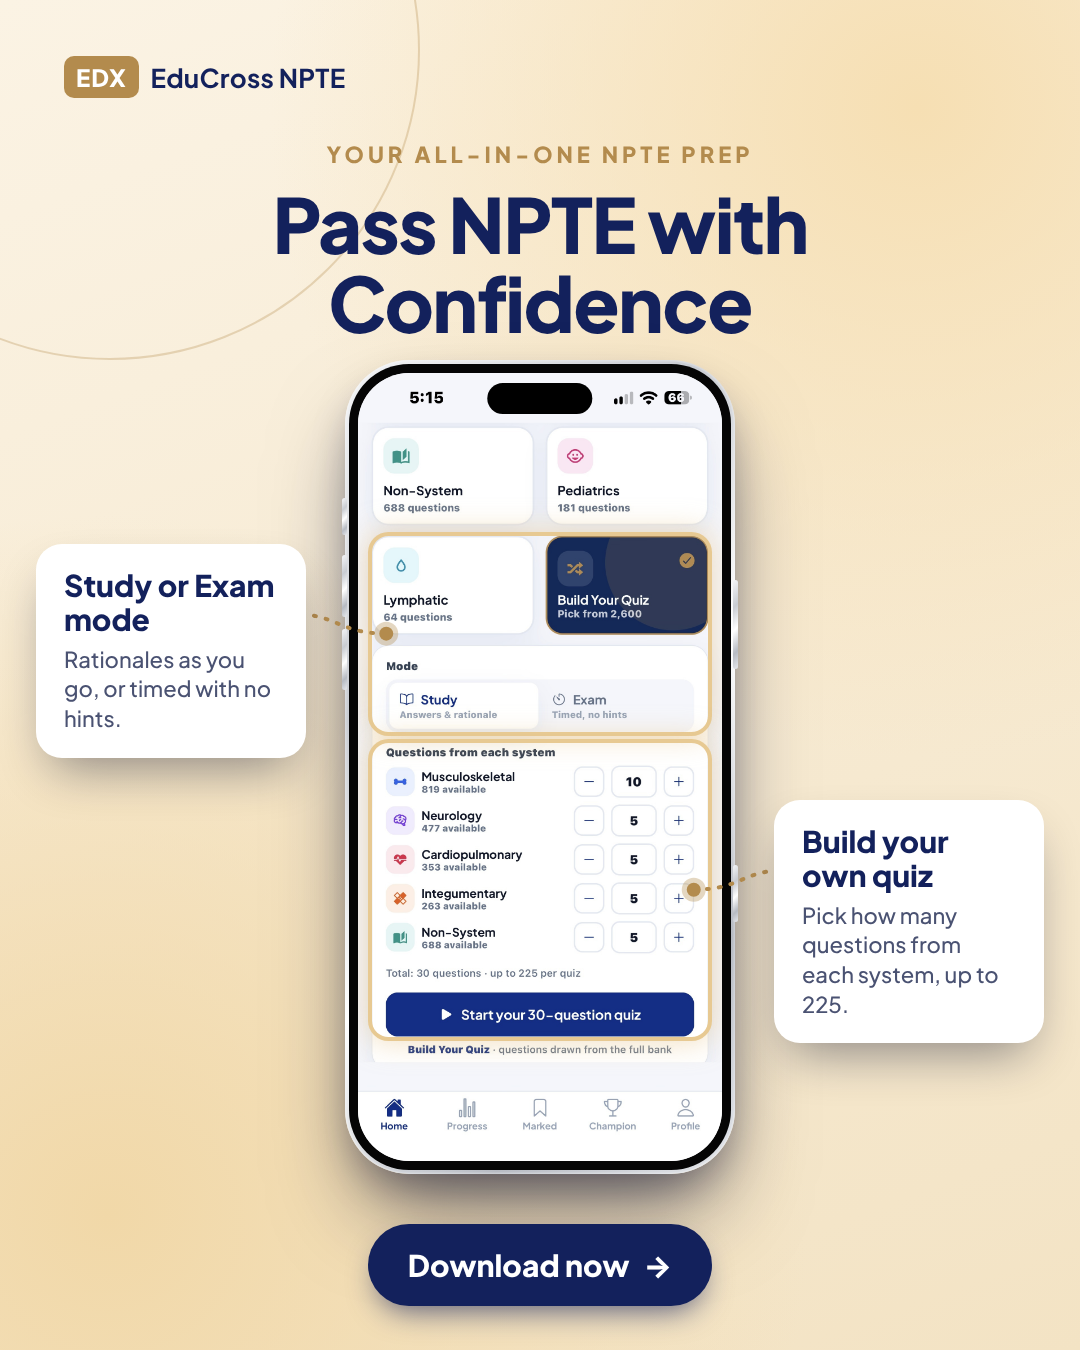
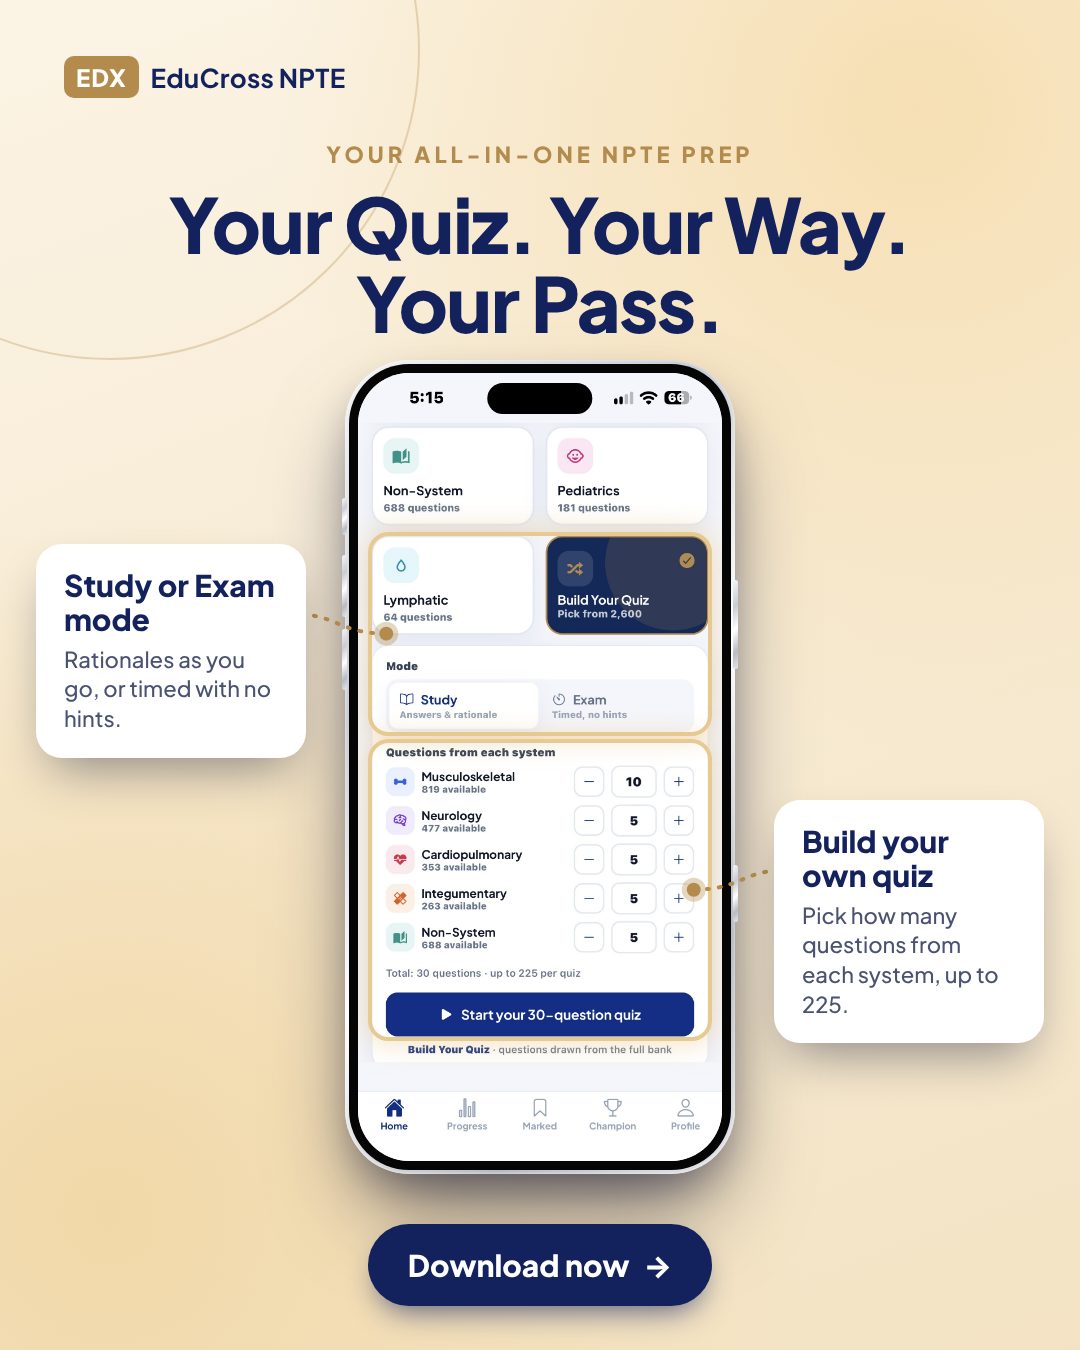
Give the Build Your Quiz ad its own headline
Claude-Session: https://claude.ai/code/session_01GUvH9RzxzMnEgJU7PzBmzG

Changed region(s): [[0.1528, 0.1244, 0.825, 0.2489]]

diff --git a/facebook-ads/generator/copy.js b/facebook-ads/generator/copy.js
@@ -65,6 +65,6 @@ module.exports = [
       { t: 'Study or Exam mode', d: 'Rationales as you go, or timed with no hints.', box: { x0: .037, x1: .963, y0: .206, y1: .455 } },
       { t: 'Build your own quiz', d: 'Pick how many questions from each system, up to 225.', box: { x0: .037, x1: .963, y0: .469, y1: .842 } },
     ],
-    h: ['Pass NPTE with Confidence'],
+    h: ['Your Quiz. Your Way.<br>Your Pass.'],
   },
 ];
